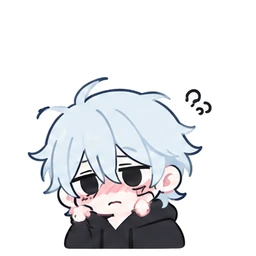
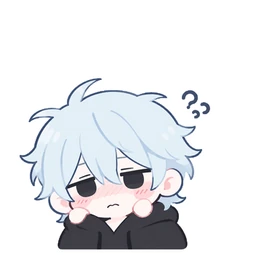
Character by the mood slider, new rough/flustered, faster face swaps
- The character moves from the header pill to the mood row (where the
  mood blob used to be), so it reacts right where you slide; the pill
  goes back to its flower and streak count. Reactions (gym, boundaries,
  milestones, blank check-in) show there too.
- New "rough" and "flustered" stickers from the user's drawings.
- Faces no longer wait on the network: all stickers are preloaded, and
  the service worker serves chars/ and icons/ cache-first. Same-origin
  pages revalidate instead of trusting GitHub Pages' 10-minute HTTP
  cache, and precaching bypasses it, so updates show up right away.

Claude-Session: https://claude.ai/code/session_01YXeh6U66pg7UJmpCXCE6u7

Changed region(s): [[0.0625, 0.2812, 0.8438, 1.0]]

diff --git a/index.html b/index.html
@@ -116,11 +116,10 @@
     box-shadow: var(--shadow);
     flex: none;
   }
-  .streak-pill .blob { width: 54px; height: 54px; margin: -12px -2px -9px -6px; }
+  .streak-pill .blob { width: 36px; height: 36px; margin: -3px -2px; }
   .streak-pill b { font-size: 1rem; font-weight: 800; }
-  .streak-pill:not(.lit) b { color: var(--muted); }
+  .streak-pill:not(.lit) .blob { filter: grayscale(0.9) opacity(0.55); }
   .streak-pill.pop .blob { animation: boing 0.6s cubic-bezier(0.34, 1.56, 0.64, 1); }
-  .streak-pill.squish .blob { animation: squish 0.45s cubic-bezier(0.34, 1.56, 0.64, 1); }
   @keyframes boing {
     0% { transform: scale(0.6) rotate(-12deg); }
     60% { transform: scale(1.25) rotate(6deg); }
@@ -213,6 +212,12 @@
     55% { transform: scale(0.95, 1.07); }
     100% { transform: none; }
   }
+  /* the character sits by the mood slider and reacts as you slide */
+  .mood-head { justify-content: flex-start; align-items: center; gap: 10px; }
+  .mood-head .scale-label { flex: 1; }
+  .mood-slot { flex: none; width: 84px; height: 84px; margin: -16px -2px -12px -10px; }
+  .mood-slot .blob { width: 100%; height: 100%; }
+  .mood-slot.squish { animation: squish 0.45s cubic-bezier(0.34, 1.56, 0.64, 1); }
   /* the live mood word sits under the slider, between the two ends */
   .mood-ends { align-items: baseline; }
   .mood-word { font-size: 0.85rem; font-weight: 700; color: var(--text); }
@@ -828,12 +833,12 @@ function exprFor(mood, { idle = "neutral", tired = false } = {}) {
 // after midnight and before 7am
 const smallHours = () => new Date().getHours() < 7;
 
-// a short-lived face after something happens (a slip, a milestone, a goal done)
+// a short-lived face after something happens (a slip, a milestone, a blank check-in)
 let reaction = null;
 function react(expr, ms = 1800) {
   reaction = expr;
   clearTimeout(react._t);
-  react._t = setTimeout(() => { reaction = null; paintPill(); }, ms);
+  react._t = setTimeout(() => { reaction = null; paintFace(); }, ms);
 }
 const CHECK = `<svg viewBox="0 0 24 24" aria-hidden="true"><path d="M6 12.5l4 4 8-9" fill="none" stroke="currentColor" stroke-width="2.8" stroke-linecap="round" stroke-linejoin="round"/></svg>`;
 
@@ -1210,8 +1215,10 @@ function scaleHTML(id, label, value, withMood, ends) {
   const below = withMood
     ? `<div class="seg-ends mood-ends"><span>Drained</span><span class="mood-word ${value ? "" : "empty"}">${value ? moodWord(value) : "slide to pick"}</span><span>Radiant</span></div>`
     : ends ? `<div class="seg-ends"><span>${ends[0]}</span><span>${ends[1]}</span></div>` : "";
+  const face = withMood ? moodFace() : "";
   return `<div class="scale" data-scale-id="${id}">
-    <div class="scale-head">
+    <div class="scale-head${withMood ? " mood-head" : ""}">
+      ${withMood ? `<span class="mood-slot" data-expr="${face}">${charHTML(face)}</span>` : ""}
       <span class="scale-label">${label}</span>
       <span class="scale-val ${value === null ? "empty" : ""}">${value === null ? "–" : value}</span>
     </div>
@@ -1295,9 +1302,9 @@ function wireScales(model, onChange) {
 function moodWord(v) { return v ? MOOD_WORDS[v - 1] : ""; }
 
 // ---------- shared pieces: header pill, week card, up-next card ----------
-// the header character: coffee in the morning, cozy in the evening, then
-// whatever the mood slider says
-function headerExpression() {
+// the character by the mood slider: coffee in the morning, cozy in the evening,
+// then whatever the slider says (or a short reaction to what you just tapped)
+function moodFace() {
   if (reaction) return reaction;
   if (tab === "evening") {
     return exprFor(state.days[eveningKey()]?.evening?.mood, { idle: "cozy", tired: smallHours() });
@@ -1305,24 +1312,34 @@ function headerExpression() {
   const m = state.days[todayKey()]?.morning;
   return exprFor(m?.mood, { idle: "coffee", tired: smallHours() || (m?.sleep != null && m.sleep < 4) });
 }
-const pillSig = () => `${currentStreak()}|${dayFilled(todayKey())}|${headerExpression()}`;
+// swap the face in place, with a little squish, only when it actually changes
+function paintFace() {
+  const slot = view.querySelector(".mood-slot");
+  if (!slot) return;
+  const face = moodFace();
+  if (slot.dataset.expr === face) return;
+  slot.dataset.expr = face;
+  slot.innerHTML = charHTML(face);
+  slot.classList.remove("squish");
+  void slot.offsetWidth;
+  slot.classList.add("squish");
+}
+
+const pillSig = () => `${currentStreak()}|${dayFilled(todayKey())}`;
 function pillHTML(pop) {
   const cur = currentStreak();
   const done = dayFilled(todayKey());
-  return `<button class="streak-pill ${done ? "lit" : ""} ${pop ? "pop" : ""}" data-goto="progress" aria-label="${cur} day streak">${charHTML(headerExpression())}<b>${cur}</b></button>`;
+  return `<button class="streak-pill ${done ? "lit" : ""} ${pop ? "pop" : ""}" data-goto="progress" aria-label="${cur} day streak">${blobSVG("flower", 5, { decor: false })}<b>${cur}</b></button>`;
 }
-// repaint the header pill only when something on it changed; returns whether it did
+// repaint the header pill only when the streak changed
 function paintPill(pop) {
   const slot = view.querySelector("#pill-slot");
-  if (!slot) return false;
+  if (!slot) return;
   const sig = pillSig();
-  if (!pop && slot.dataset.sig === sig) return false;
-  const prevExpr = (slot.dataset.sig || "").split("|")[2];
+  if (!pop && slot.dataset.sig === sig) return;
   slot.innerHTML = pillHTML(pop);
   slot.dataset.sig = sig;
-  if (!pop && prevExpr && prevExpr !== sig.split("|")[2]) slot.firstElementChild.classList.add("squish");
   wireShared(slot);
-  return true;
 }
 
 function weekHTML() {
@@ -1394,6 +1411,7 @@ function wireShared(root) {
 function refreshChrome(pop) {
   updateNavDots();
   paintPill(pop);
+  paintFace();
   const week = view.querySelector("#week-slot");
   if (week) week.innerHTML = weekHTML();
 }
@@ -1441,7 +1459,7 @@ function renderMorning() {
   view.querySelector("#intention").oninput = e => { m.intention = e.target.value; onChange(); };
   view.querySelector("#done-morning").onclick = e => {
     pulse(e.currentTarget);
-    if (!morningFilled(m)) { react("annoyed"); paintPill(); toast(pick(EMPTY_TOASTS)); return; }
+    if (!morningFilled(m)) { react("annoyed"); paintFace(); toast(pick(EMPTY_TOASTS)); return; }
     tick();
     doneToast("morning");
   };
@@ -1585,7 +1603,7 @@ function renderEvening() {
   view.querySelector("#honest").oninput = e => { ev.honest = e.target.value; onChange(); };
   view.querySelector("#done-evening").onclick = e => {
     pulse(e.currentTarget);
-    if (!eveningFilled(ev)) { react("annoyed"); paintPill(); toast(pick(EMPTY_TOASTS)); return; }
+    if (!eveningFilled(ev)) { react("annoyed"); paintFace(); toast(pick(EMPTY_TOASTS)); return; }
     // the day toggle marks days that already have an evening saved
     const tabBtn = view.querySelector(`[data-day="${eveningOffset}"]`);
     if (tabBtn && !tabBtn.querySelector(".mark")) tabBtn.insertAdjacentHTML("beforeend", `<span class="mark"></span>`);
@@ -2338,6 +2356,10 @@ if (hour < 5) {
 } else {
   setTab(hour >= 17 ? "evening" : "morning");
 }
+
+// warm up every face once the first screen is drawn, so swapping is instant
+const facePreload = [];
+setTimeout(() => CHAR_FACES.forEach(n => { const i = new Image(); i.src = `chars/${n}.webp`; facePreload.push(i); }), 300);
 
 const isSecureHost = location.protocol === "https:" || location.hostname === "localhost" || location.hostname === "127.0.0.1";
 if ("serviceWorker" in navigator && isSecureHost) {

diff --git a/sw.js b/sw.js
@@ -1,10 +1,11 @@
-const CACHE = "daily-checkin-v13";
+const CACHE = "daily-checkin-v14";
 const ASSETS = ["./", "index.html", "manifest.webmanifest", "icons/icon-192.png", "icons/icon-512.png", "icons/icon-512-maskable.png",
   "chars/neutral.webp", "chars/happy.webp", "chars/great.webp", "chars/low.webp", "chars/rough.webp", "chars/sleepy.webp", "chars/proud.webp", "chars/coffee.webp", "chars/thinking.webp", "chars/cozy.webp", "chars/sigh.webp", "chars/nice.webp", "chars/annoyed.webp", "chars/surprised.webp", "chars/flustered.webp", "chars/away.webp"];
 const NETWORK_TIMEOUT = 3500;
 
+// "reload" skips the browser's HTTP cache, so a new version never precaches a stale copy
 self.addEventListener("install", e => {
-  e.waitUntil(caches.open(CACHE).then(c => c.addAll(ASSETS)).then(() => self.skipWaiting()));
+  e.waitUntil(caches.open(CACHE).then(c => c.addAll(ASSETS.map(u => new Request(u, { cache: "reload" })))).then(() => self.skipWaiting()));
 });
 
 self.addEventListener("activate", e => {
@@ -26,11 +27,26 @@ function fetchWithTimeout(request, ms) {
   });
 }
 
-// network-first (with a timeout) so updates land quickly, cache fallback so it works offline
+// stickers and icons only change along with CACHE, so they come straight from the cache —
+// a new face never waits on a slow connection
+const STATIC = /\/(chars|icons)\//;
+function cacheFirst(request) {
+  return caches.match(request, { ignoreSearch: true }).then(hit => hit || fetch(request).then(res => {
+    const copy = res.clone();
+    caches.open(CACHE).then(c => c.put(request, copy));
+    return res;
+  }));
+}
+
+// everything else is network-first (with a timeout) so updates land quickly, cache fallback
+// so it works offline. Our own files revalidate instead of trusting the HTTP cache, which on
+// GitHub Pages can hold an old copy for 10 minutes.
 self.addEventListener("fetch", e => {
   if (e.request.method !== "GET") return;
+  const sameOrigin = new URL(e.request.url).origin === self.location.origin;
+  if (sameOrigin && STATIC.test(new URL(e.request.url).pathname)) { e.respondWith(cacheFirst(e.request)); return; }
   e.respondWith(
-    fetchWithTimeout(e.request, NETWORK_TIMEOUT)
+    fetchWithTimeout(sameOrigin ? new Request(e.request, { cache: "no-cache" }) : e.request, NETWORK_TIMEOUT)
       .then(res => {
         const copy = res.clone();
         caches.open(CACHE).then(c => c.put(e.request, copy));

diff --git a/README.md b/README.md
@@ -13,7 +13,7 @@ Built as a single self-contained page — no accounts, no server, no tracking. E
 - **Morning**: sleep / mood / body on a 1–10 scale — tap or slide across to set a value — plus an intention for the day
 - **Evening**: the morning's intention read back to you, how you feel now, boundary tracking (held / slipped), gym (went / rest day / skipped), a rough "spent today", "what happened", and "one honest thing"
 - **Yesterday / today toggle** on the evening tab — for when you close the day after midnight. Before 5am the app opens on the evening tab already set to yesterday, and a small dot marks days you've already saved
-- **The mascot**: one hand-drawn character — messy pale-blue hair, tired eyes, a black hoodie — shown as stickers in `chars/`. It drinks coffee in the morning and gets cozy in the evening, then follows your mood slider (pouting at 3–4, hiding in its sleeves at 1–2, ecstatic at 9–10). It's sleepy in the small hours, smug on streaks and finished goals, sighs when you skip the gym or slip on a boundary, does finger guns when you hold one, and gets annoyed at a blank check-in. The mood word (drained → radiant) shows live under the slider
+- **The character**: your own hand-drawn character — messy pale-blue hair, tired eyes, a black hoodie — sits right next to the mood slider and changes face as you slide: pouting at 3–4, hiding in its sleeves at 1–2, ecstatic at 9–10. Before you pick a mood it's drinking coffee in the morning and cozy in the evening, and sleepy in the small hours. It sighs when you skip the gym or slip on a boundary, does finger guns when you hold one, and gets annoyed at a blank check-in. The stickers live in `chars/` and are cached on the phone, so faces swap instantly. The mood word (drained → radiant) shows live under the slider
 - **Toasts with a bit of personality**: dry, warm one-liners when you finish a check-in, with special lines for late nights and streak milestones
 - **Journal**: scroll back through every intention, "what happened" and "one honest thing", newest first
 - **This week's story**: the week stitched together day by day like a short diary — intentions, notes, boundaries, gym, spending, mood — with a *copy week* button for your weekly review
